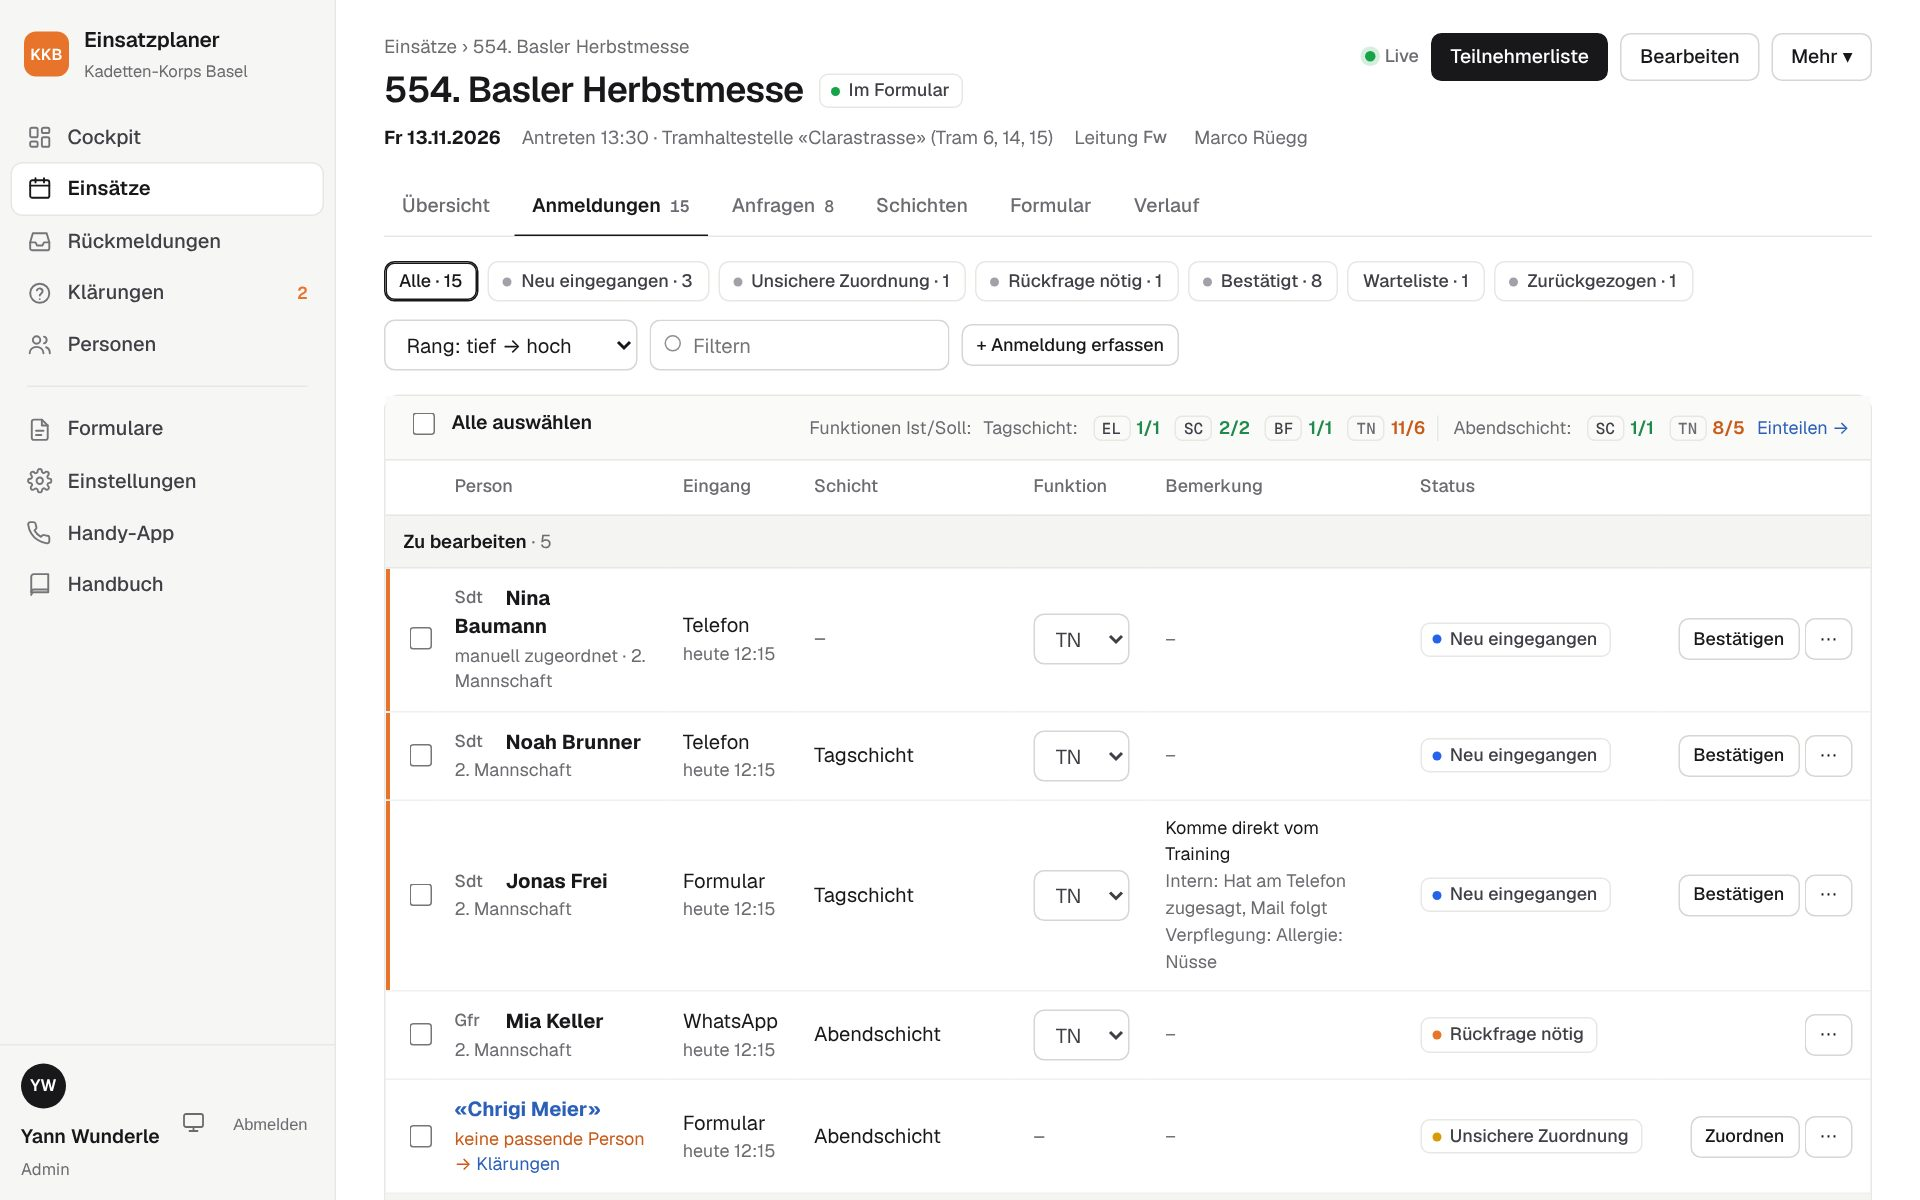
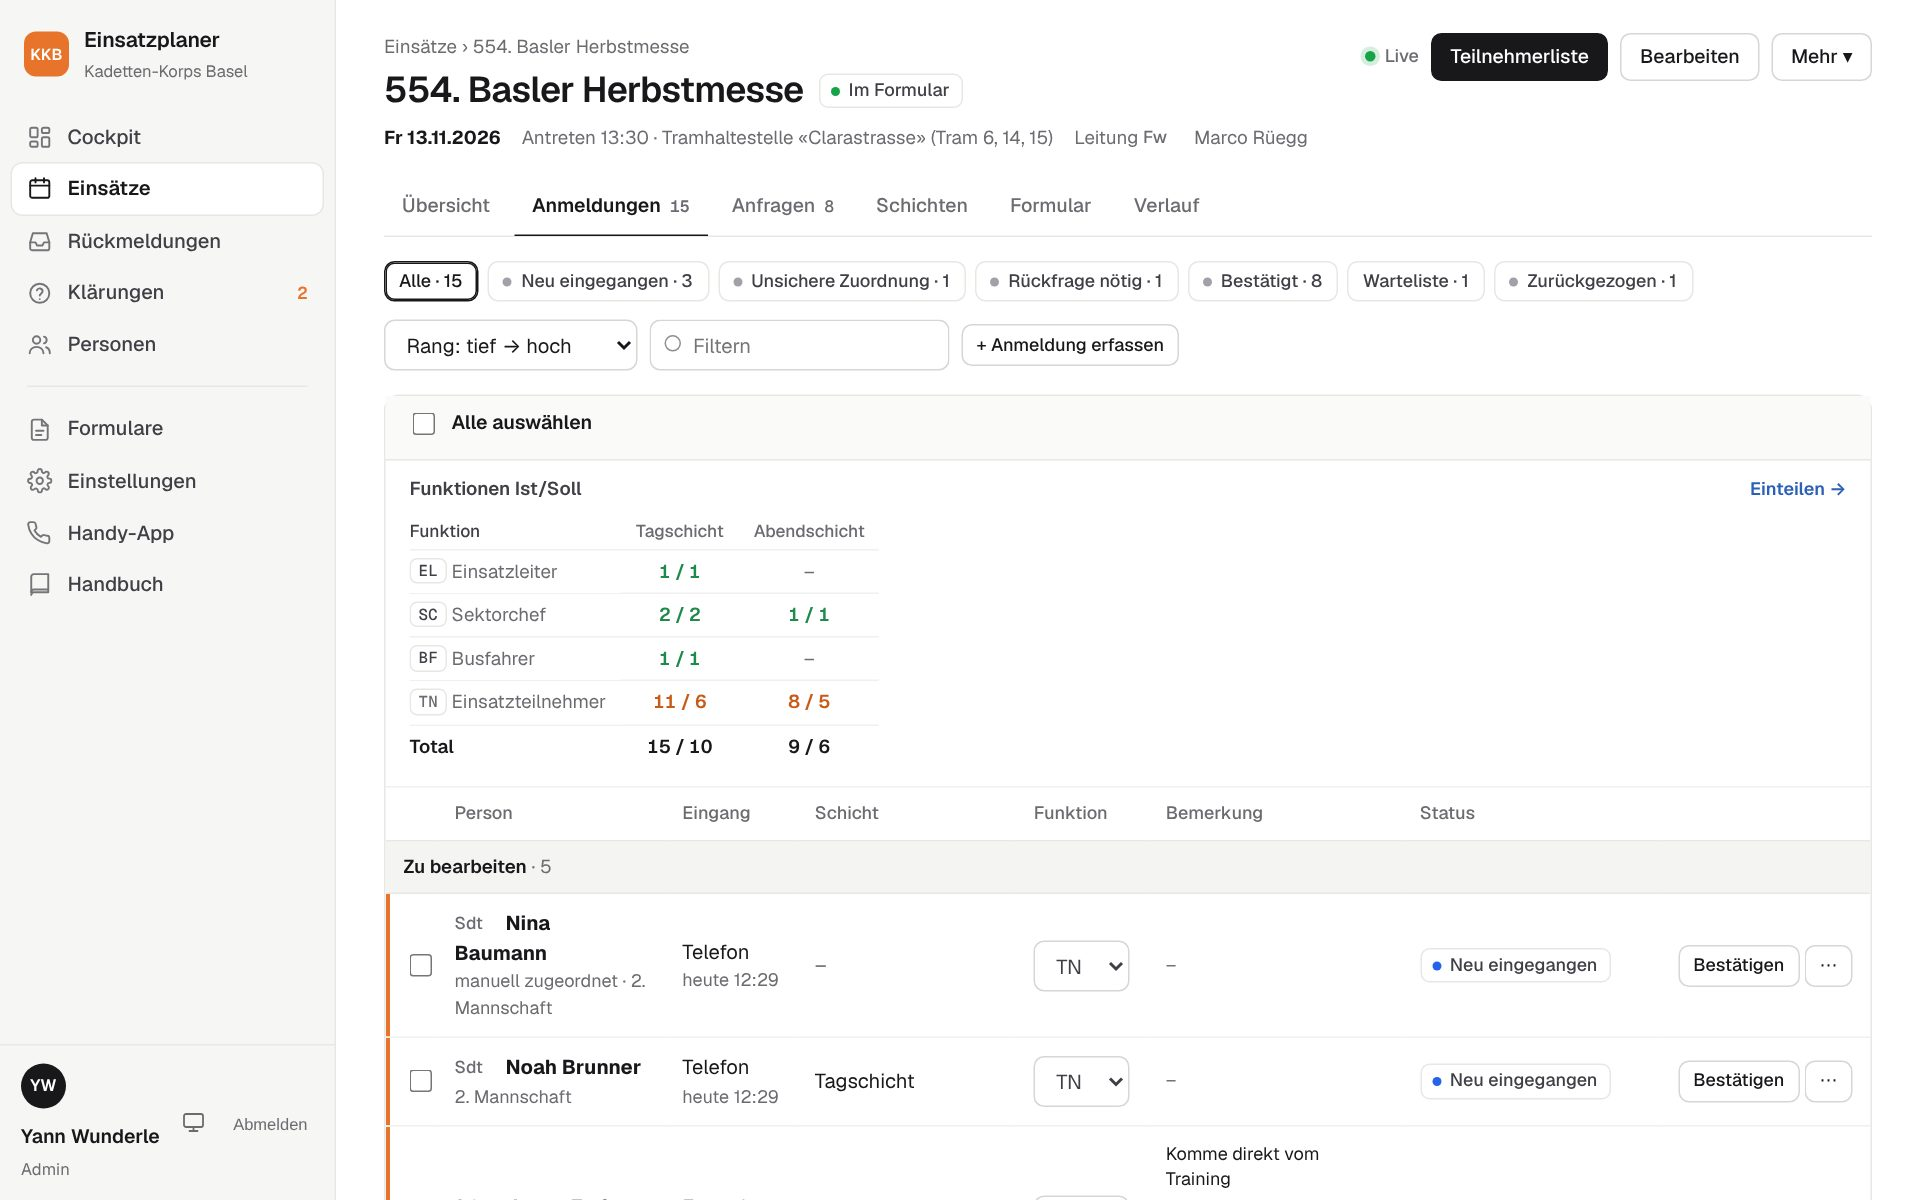
Funktionen Ist/Soll als Tabelle: eine Spalte pro Schicht, eine Zeile pro Funktion
Anmeldungen und Teilnehmerliste zeigen statt der langen Zeile eine kleine
Tabelle mit Total. Im PDF steht eine Zeile pro Schicht. Handbuch und
Bilder 07-09 nachgeführt.

Claude-Session: https://claude.ai/code/session_01EBemd3HoigeV8VfdKMorkm

diff --git a/src/services/functions.js b/src/services/functions.js
@@ -94,14 +94,14 @@ function summary(event, { shiftId = null } = {}) {
     const targets = parseTargets(sh.function_targets);
     const inShift = regs.filter((g) => g.shift_id === sh.id);
     const units = exts.filter((x) => x.allShifts || x.shiftIds.includes(sh.id));
-    const rows = list.map((f) => {
+    const rows = list.map((f, pos) => {
       const people = inShift.filter((g) => of(g.function_id, map, def).id === f.id);
       const us = units.filter((x) => x.func.id === f.id);
       const extern = us.reduce((a, x) => a + x.person_count, 0);
       const ist = people.length + extern;
       const soll = targets[f.id] || null;
       return {
-        ...f, soll, ist, intern: people.length, extern, people, units: us, tone: tone(ist, soll),
+        ...f, pos, soll, ist, intern: people.length, extern, people, units: us, tone: tone(ist, soll),
         missing: soll ? Math.max(0, soll - ist) : null, over: soll && ist > soll ? ist - soll : 0,
       };
     }).filter((r) => r.soll || r.ist || (!multi && (r.active || r.is_default)));
@@ -109,16 +109,38 @@ function summary(event, { shiftId = null } = {}) {
     return { id: sh.id, name: sh.name, starts_at: sh.starts_at, ends_at: sh.ends_at, rows, totalSoll, totalIst: rows.reduce((a, r) => a + r.ist, 0), hasTargets: totalSoll > 0 };
   });
   // «usesFunctions»: mehr als nur Einsatzteilnehmer – erst dann lohnen sich Spalte und Zeile «Funktion» in Listen
-  return {
+  const res = {
     shifts: out, multi: multi && !shiftId, hasTargets: out.some((x) => x.hasTargets), anyAssigned: out.some((x) => x.rows.some((r) => !r.is_default && r.ist)),
     usesFunctions: out.some((x) => x.rows.some((r) => !r.is_default && (r.soll || r.ist))), def,
   };
+  res.grid = grid(res);
+  return res;
 }
 
 // Kurztext «EL 1/1 · SC 1/2 · …» (bei mehreren Schichten mit Schichtnamen) für PDF, Exporte und Listen
+const oneLine = (x) => x.rows.filter((r) => r.soll || r.ist).map((r) => `${r.short} ${r.ist}/${r.soll ?? '–'}`).join(' · ') || '–';
 function line(sum) {
-  const one = (x) => x.rows.filter((r) => r.soll || r.ist).map((r) => `${r.short} ${r.ist}/${r.soll ?? '–'}`).join(' · ') || '–';
-  return sum.shifts.map((x) => (sum.multi ? `${x.name}: ${one(x)}` : one(x))).join('  |  ');
+  return sum.shifts.map((x) => (sum.multi ? `${x.name}: ${oneLine(x)}` : oneLine(x))).join('  |  ');
+}
+
+// Wie line(), aber eine Zeile pro Schicht (PDF): bleibt bei vielen Schichten lesbar
+function lines(sum) {
+  return sum.shifts.map((x) => (sum.multi ? `${x.name}: ${oneLine(x)}` : oneLine(x)));
+}
+
+/**
+ * Raster für die Ansicht «Funktionen Ist/Soll»: eine Spalte pro Schicht, eine Zeile pro Funktion.
+ * Funktionen ohne Soll und ohne Ist in allen Schichten fallen weg.
+ */
+function grid(sum) {
+  const fns = new Map();
+  for (const sh of sum.shifts) for (const r of sh.rows) if ((r.soll || r.ist) && !fns.has(r.id)) fns.set(r.id, r);
+  const order = [...fns.values()].sort((a, b) => a.pos - b.pos);
+  const rows = order.map((f) => ({
+    id: f.id, short: f.short, name: f.name, is_default: f.is_default,
+    cells: sum.shifts.map((sh) => sh.rows.find((r) => r.id === f.id) || null),
+  }));
+  return { shifts: sum.shifts, rows, showTotal: sum.hasTargets && rows.length > 1 };
 }
 
 // Funktion einer Anmeldung setzen (Standardfunktion wird als NULL gespeichert)
@@ -161,4 +183,4 @@ function bulkAssign(ids, functionId, user) {
   return { changed, errors };
 }
 
-module.exports = { all, byId, defaultFn, of, parseTargets, readTargets, total, summary, line, assign, bulkAssign, tone, INACTIVE_REG };
+module.exports = { all, byId, defaultFn, of, parseTargets, readTargets, total, summary, line, lines, grid, assign, bulkAssign, tone, INACTIVE_REG };

diff --git a/public/css/ruhig.css b/public/css/ruhig.css
@@ -467,3 +467,27 @@ details.collapse > summary .hint { margin-left: 6px; font-size: 12px; font-weigh
 .tip-mine { color: var(--green); }
 .tip-clash { color: var(--muted); }
 .shift-clash { color: var(--muted); font-size: 12px; font-weight: 600; }
+
+/* Funktionen Ist/Soll (Anmeldungen, Teilnehmerliste): Raster mit einer Spalte pro Schicht, einer Zeile pro Funktion */
+.fn-panel { border-bottom: 1px solid var(--border-soft); padding-top: 10px; padding-bottom: 12px; }
+.fn-panel-head { display: flex; align-items: baseline; justify-content: space-between; gap: 12px; margin-bottom: 6px; font-size: 12.5px; font-weight: 600; color: var(--text-2); }
+.fn-matrix-wrap { overflow-x: auto; }
+.fn-matrix { width: auto; border-collapse: collapse; font-variant-numeric: tabular-nums; }
+.fn-matrix th, .fn-matrix td { padding: 5px 10px; font-size: 12.5px; border-bottom: 1px solid var(--border-soft); white-space: nowrap; }
+.fn-matrix thead th { font-size: 11.5px; font-weight: 500; color: var(--muted); text-align: center; white-space: normal; min-width: 78px; max-width: 110px; line-height: 1.25; vertical-align: bottom; }
+.fn-matrix td { text-align: center; }
+.fn-matrix .fn-matrix-label { text-align: left; font-weight: 500; color: var(--text-2); padding-left: 0; position: sticky; left: 0; background: var(--card); }
+.fn-matrix thead .fn-matrix-label { vertical-align: bottom; }
+.fn-matrix td.fn-chip { display: table-cell; font-weight: 600; }
+.fn-matrix tbody tr:last-child th, .fn-matrix tbody tr:last-child td { border-bottom: 0; }
+.fn-matrix .fn-matrix-total th, .fn-matrix .fn-matrix-total td { border-top: 1px solid var(--border); font-weight: 600; color: var(--text); }
+.fn-matrix-name { font-weight: 400; color: var(--muted); }
+@media (max-width: 760px) {
+  .fn-matrix-name { display: none; }
+  .fn-matrix th, .fn-matrix td { padding-left: 6px; padding-right: 6px; }
+  .fn-matrix thead th { min-width: 64px; }
+}
+@media print {
+  .fn-matrix .fn-matrix-label { position: static; }
+  .fn-matrix th, .fn-matrix td { padding: 2px 6px; font-size: 10px; }
+}

diff --git a/src/services/lists.js b/src/services/lists.js
@@ -66,6 +66,12 @@ function verpflegungAfter(list, exts) {
   ];
 }
 
+// «Funktionen (Ist/Soll)» im PDF: bei mehreren Schichten eine Zeile pro Schicht statt einer langen Zeile
+function fnLines(sum) {
+  const ls = functions.lines(sum);
+  return ls.length > 1 ? ['Funktionen (Ist/Soll):', ...ls] : [`Funktionen (Ist/Soll): ${ls[0] || '–'}`];
+}
+
 function participantPdf(e, v) {
   const extTotal = v.extTotal;
   const subtitle = [
@@ -80,7 +86,7 @@ function participantPdf(e, v) {
       const head = {
         title: `${g.title} · ${persons(g.list.length)}${g.extTotal ? ` + ${g.extTotal} extern` : ''}`,
         pageBreak: true,
-        subtitle: v.showFunction && g.fnSummary ? [`Funktionen (Ist/Soll): ${functions.line(g.fnSummary)}`] : [],
+        subtitle: v.showFunction && g.fnSummary ? fnLines(g.fnSummary) : [],
         columns, rows: rowsOf(columns, g.list), empty: 'Niemand eingeteilt.',
       };
       sections.push(head);
@@ -92,7 +98,7 @@ function participantPdf(e, v) {
   const { columns, extColumns } = participantColumns(e, v, { showShift: v.showShift });
   return tablePdf({
     title,
-    subtitle: [...subtitle, ...(v.showFunction ? [`Funktionen (Ist/Soll): ${functions.line(v.fnSummary)}`] : [])],
+    subtitle: [...subtitle, ...(v.showFunction ? fnLines(v.fnSummary) : [])],
     columns, rows: rowsOf(columns, v.list), empty: 'Noch niemand angemeldet.',
     sections: v.exts.length ? [{ title: `Externe Abteilungen · ${persons(extTotal)}`, columns: extColumns, rows: rowsOf(extColumns, v.exts) }] : [],
     after: verpflegungAfter(v.list, v.exts),

diff --git a/test/http.test.js b/test/http.test.js
@@ -532,7 +532,9 @@ test('Funktionen: Soll pro Einsatz festlegen, zuweisen, Ist/Soll und Teilnehmerl
 
   // Teilnehmerliste: Spalte Funktion, Ist/Soll, Export
   const tl = await (await get(`/einsaetze/${ev}/teilnehmerliste?sort=funktion`, auf.cookie)).text();
-  assert.match(tl, /Funktionen \(Ist\/Soll\)/);
+  assert.match(tl, /Funktionen Ist\/Soll/);
+  assert.match(tl, /<table class="fn-matrix no-cards">/);
+  assert.match(tl, /tone-green"[^>]*>1 \/ 1<\/td>/);
   assert.ok(tl.indexOf('Marco Leit') < tl.indexOf('Tim Teil'));
   const csv = (await (await get(`/einsaetze/${ev}/teilnehmerliste?format=csv&sort=funktion`, auf.cookie)).text()).replace(/^/, '').trim().split(/\r?\n/);
   assert.match(csv[0], /^Nr\.;Anzahl;Funktion;Rang;Nachname/);

diff --git a/public/css/app.css b/public/css/app.css
@@ -771,8 +771,6 @@ tr.changed td:first-child { box-shadow: inset 3px 0 0 var(--orange, #e8742a); }
 .fn-line-shift { margin-top: 6px; width: 100%; }
 .fn-shift + .fn-shift { margin-top: 16px; padding-top: 12px; border-top: 1px solid var(--border-soft); }
 .fn-shift-head { display: flex; justify-content: space-between; align-items: baseline; gap: 8px; margin-bottom: 8px; }
-.fn-group { display: inline-flex; flex-wrap: wrap; align-items: center; gap: 4px 10px; }
-.fn-group + .fn-group { padding-left: 10px; border-left: 1px solid var(--border); }
 
 /* ---------- Einstellungen › Server ---------- */
 .server-table { width: 100%; }

diff --git a/docs/handbuch/handbuch.md b/docs/handbuch/handbuch.md
@@ -237,7 +237,7 @@ Wer keine Funktion zugewiesen hat, zählt automatisch als **Einsatzteilnehmer (T
 - Die Funktion einer **Person** gilt für den ganzen Einsatz: Wer als SC eingeteilt ist und in der Tag- und der Abendschicht arbeitet, zählt in beiden Schichten als SC. Im Reiter «Schichten» steht deshalb in beiden Schichten dasselbe Kürzel im Auswahlfeld.
 - **Externe Abteilungen** zählen mit ihrer Anzahl Personen in ihren Schichten – standardmässig als Einsatzteilnehmer. Stellt eine Abteilung z. B. den Busfahrer, beim Erfassen der Abteilung **Funktion** auf «BF» stellen (Kapitel 7).
 
-Die Funktionen stehen auch auf der **Teilnehmerliste** (Spalte «Fkt.» bzw. «Funktion» und oben «Funktionen (Ist/Soll)»), auf der Seite des Mitglieds, in der Einsatzliste beim Export und in der Ansicht der Einsatzleiter. Jede Zuweisung steht im Verlauf.
+Die Funktionen stehen auch auf der **Teilnehmerliste** (Spalte «Fkt.» bzw. «Funktion» und oben die Tabelle «Funktionen Ist/Soll»: eine Spalte pro Schicht, eine Zeile pro Funktion; im PDF eine Zeile pro Schicht), auf der Seite des Mitglieds, in der Einsatzliste beim Export und in der Ansicht der Einsatzleiter. Jede Zuweisung steht im Verlauf.
 
 > **Funktion EL ≠ Rolle «Einsatzleiter»:** Die **Funktion** EL sagt, wer an diesem Einsatz die Leitung hat. Die **Benutzer-Rolle** «Einsatzleiter» ist ein Login, mit dem jemand freigegebene Einsätze ansehen kann (Kapitel 15). Hat eine Person mit Funktion EL (oder SC, BF) ein Einsatzleiter-Konto, schlägt die Karte **Einsatzleiter-Zugriff** vor, ihr den Einsatz freizugeben – freigeben musst du aber selbst mit einem Klick. Das Feld **Einsatzleitung** bei den Angaben bleibt unabhängig davon die Hauptverantwortung, die ins Aufgebot kommt.
 
@@ -314,7 +314,7 @@ Jede Anmeldung landet automatisch beim richtigen Einsatz – egal ob sie über d
 - **Zähler pro Status** oben: ein Klick filtert die Liste.
 - **Sortierung:** «Rang: tief → hoch» (Standard), «Rang: hoch → tief», «Funktion, dann Rang» oder «neueste zuerst». Daneben das Suchfeld.
 - **Gruppen:** Die Tabelle zeigt oben **Zu bearbeiten** (neu eingegangen, unsichere Zuordnung, Rückfrage nötig), darunter **Bestätigt**. Warteliste, Abmeldungen und ungültige Anmeldungen stehen zugeklappt am Schluss; ein Klick auf die Zeile klappt sie auf. Ist oben ein Status gewählt, gibt es keine Gruppen.
-- **Funktionen (Ist/Soll)** stehen in der Kopfzeile der Tabelle rechts (pro Schicht), sobald beim Einsatz EL, SC oder BF vorkommen.
+- **Funktionen Ist/Soll** steht als kleine Tabelle über den Anmeldungen, sobald beim Einsatz EL, SC oder BF vorkommen. Jede Schicht ist eine Spalte, jede Funktion eine Zeile, unten steht das Total. Die Farben sind dieselben wie im Reiter «Schichten». **Einteilen →** führt zum Reiter «Schichten».
 - **Spalte «Funktion»:** EL, SC, BF oder TN direkt umstellen (Kapitel 6).
 - **Sammelaktionen:** mehrere Anmeldungen ankreuzen. Erst dann erscheinen die Knöpfe zum gemeinsamen Bestätigen, Status ändern, **Funktion zuweisen** oder Exportieren. **Alle auswählen** kreuzt die ganze Liste an.
 - **Eingang:** wie die Anmeldung kam (Formular, Telefon …) und darunter wann. Unter dem Namen steht die Mannschaft; «manuell zugeordnet» oder «über Namensvariante» steht nur, wenn der Name nicht automatisch erkannt wurde.
